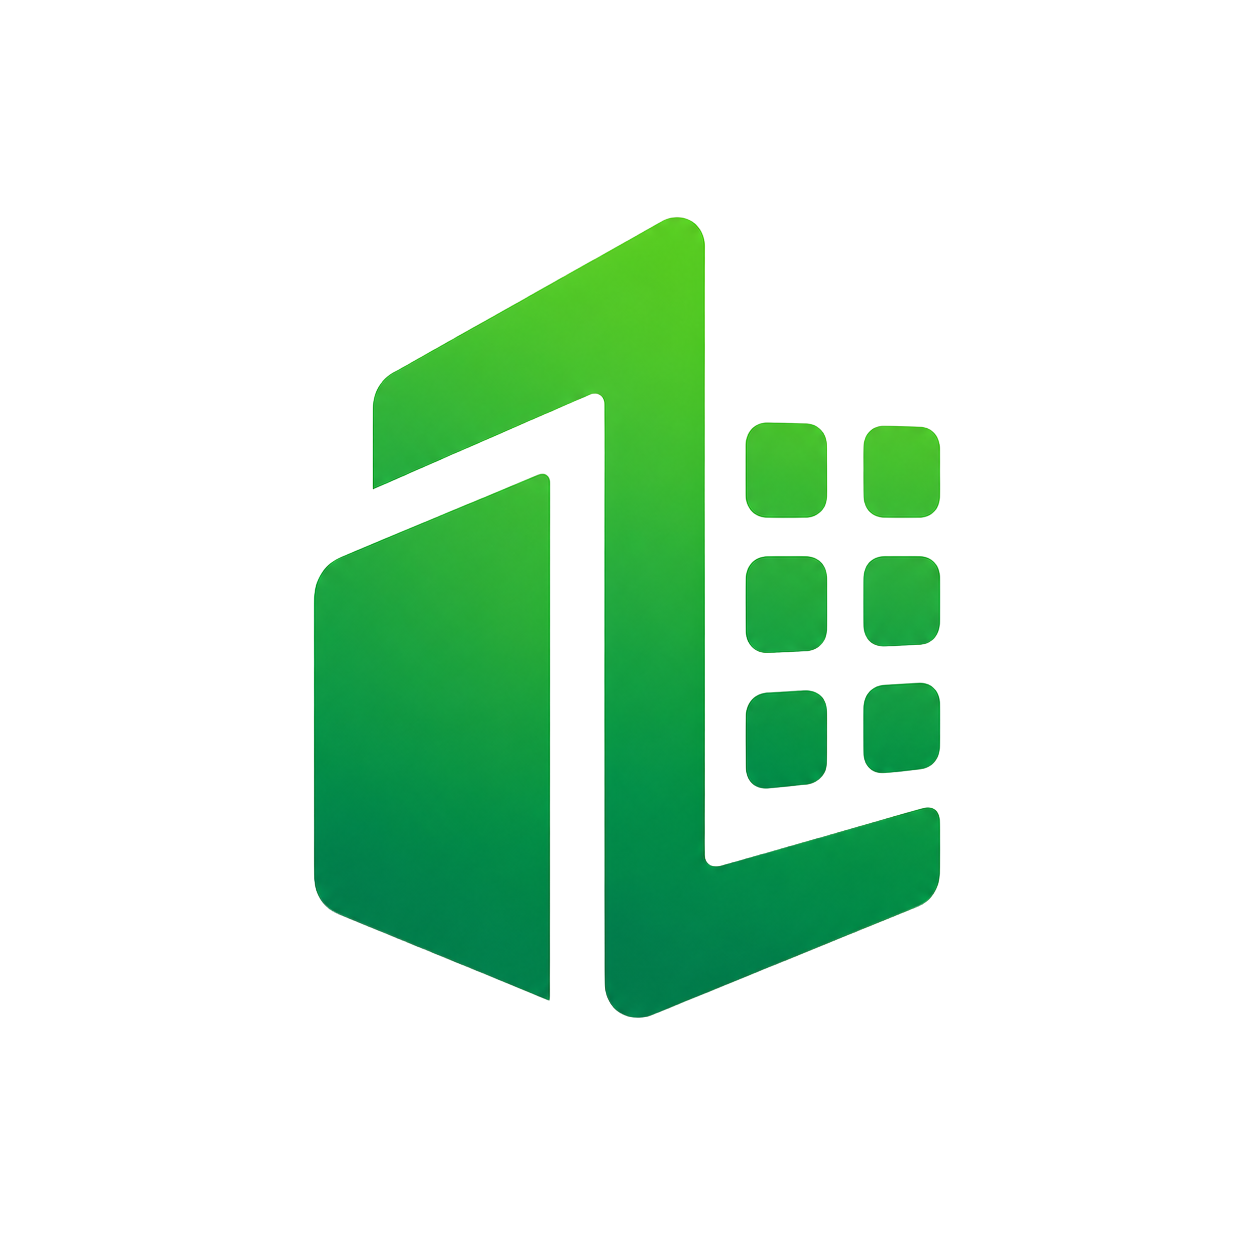
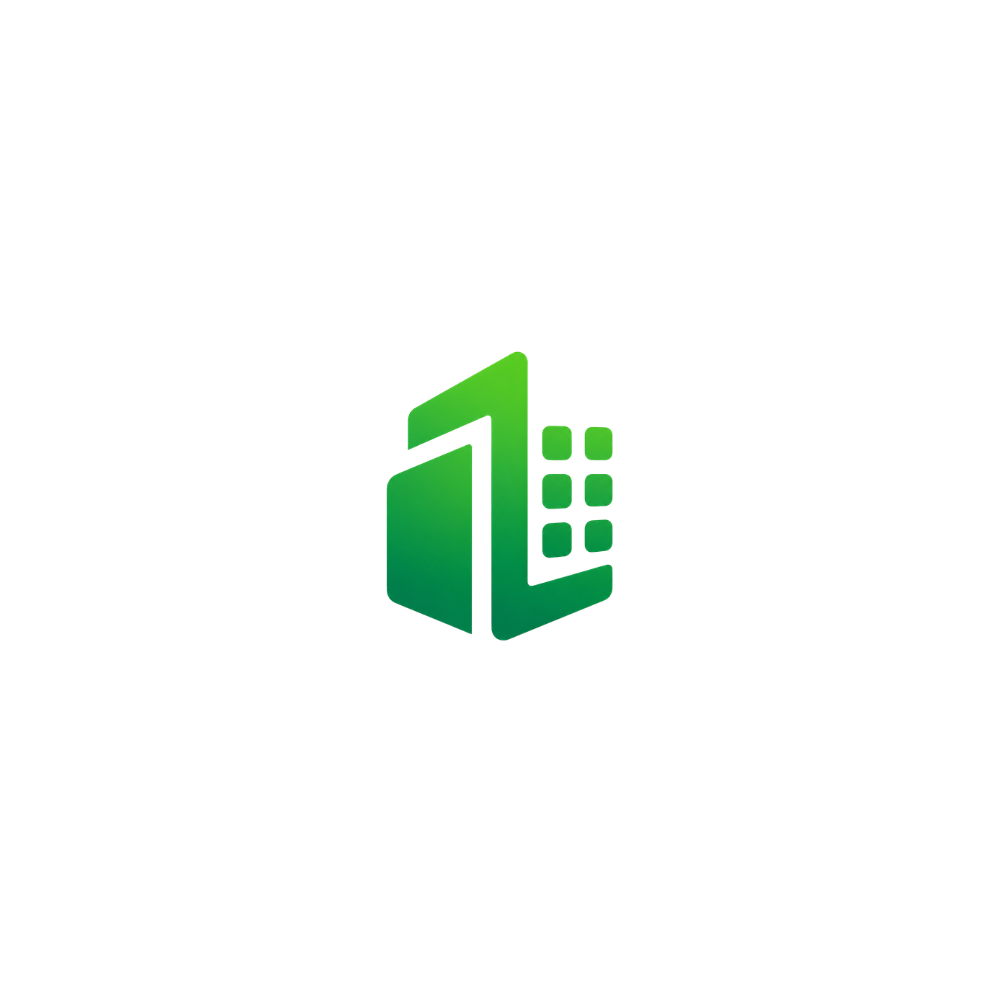
images update

Changed region(s): [[0.248, 0.155, 0.775, 0.837]]

diff --git a/script.js b/script.js
@@ -40,7 +40,7 @@ const DATA = {
         { degree: 'SSC (Science)', institution: 'Dhanmondi Govt. Boys High School', period: '2009 - 2019', description: '', position: 'right' }
     ],
     projects: [
-        { title: 'AIHR Platform', description: 'A multi-tenant AI-powered HR platform with on-premise AI inference, tenant-isolated databases, video interview intelligence, CV matching, employee engagement, performance management, workforce insights, and enterprise-grade RBAC.', technologies: ['FastAPI', 'Python', 'React', 'TypeScript', 'PostgreSQL', 'Redis', 'Ollama', 'Whisper', 'PyTorch', 'Docker', 'Terraform', 'CUDA'], image: './images/aihr.png', links: [{ label: 'Live', url: 'https://aihr.daffodilglobal.ai/' }] },
+        { title: 'AIHR', description: 'A multi-tenant AI-powered HR platform with on-premise AI inference, tenant-isolated databases, video interview intelligence, CV matching, employee engagement, performance management, workforce insights, and enterprise-grade RBAC.', technologies: ['FastAPI', 'Python', 'React', 'TypeScript', 'PostgreSQL', 'Redis', 'Ollama', 'Whisper', 'PyTorch', 'Docker', 'Terraform', 'CUDA'], image: './images/aihr.png', links: [{ label: 'Live', url: 'https://aihr.daffodilglobal.ai/' }] },
         { title: 'Barighor', description: 'A digital rent notebook SaaS for landlords in Bangladesh to manage buildings, tenants, rent collection, due payments, invoices, notices, and caretaker access.', technologies: ['Next.js', 'TypeScript', 'Express.js', 'PostgreSQL', 'Supabase', 'Prisma', 'Tailwind CSS'], image: './images/barighor.png', links: [{ label: 'Live', url: 'https://barighor.vercel.app/' }] },
         { title: 'Subtext', description: 'A secure multi-platform chat app', technologies: ['Flutter', 'Dart', 'Firebase'], image: './images/subtext.png', links: [{ label: 'Github', url: 'https://github.com/Slightsmile/Subtext' }, { label: 'Live', url: 'https://subtext-bd.vercel.app/' }] },
         { title: 'Gallbladder Cancer Detection', description: 'Built a CNN-based model to classify ultrasound images.', technologies: ['Deep Learning', 'Python', 'PyTorch'], image: './images/disease.png', links: [{ label: 'Github', url: 'https://github.com/Slightsmile/Gallblader-Cancer-Detection-DL' }] },